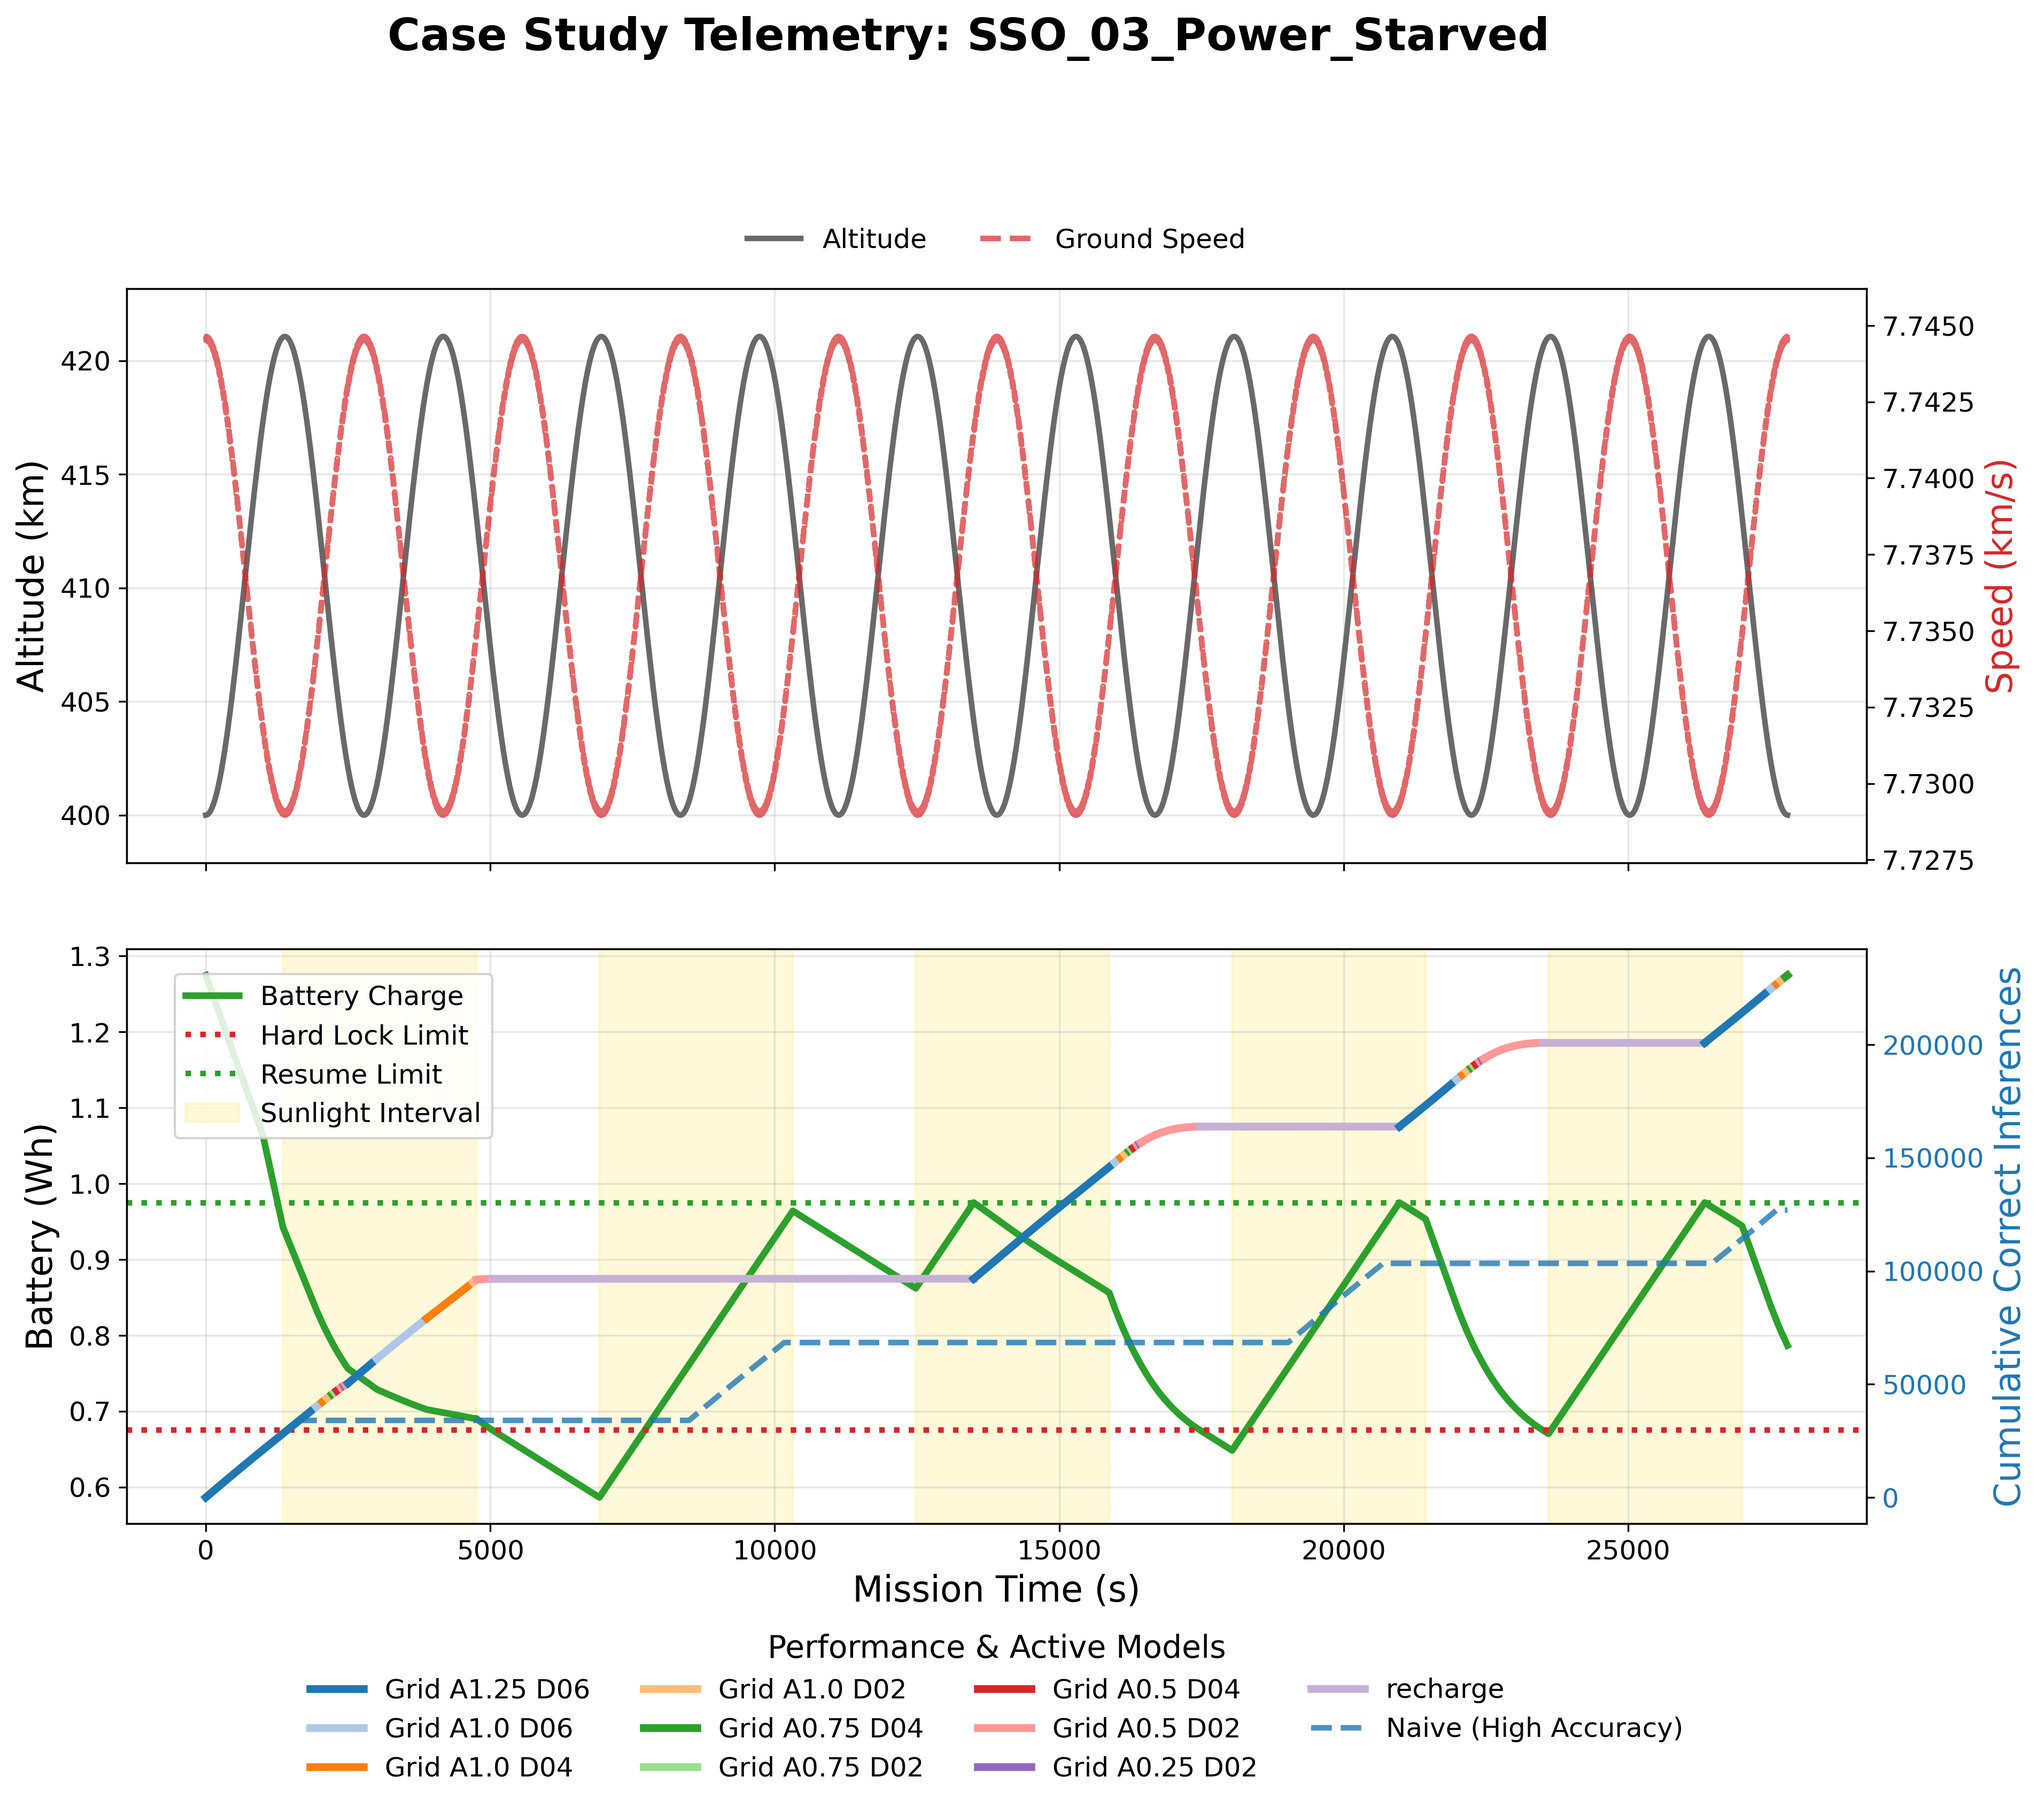
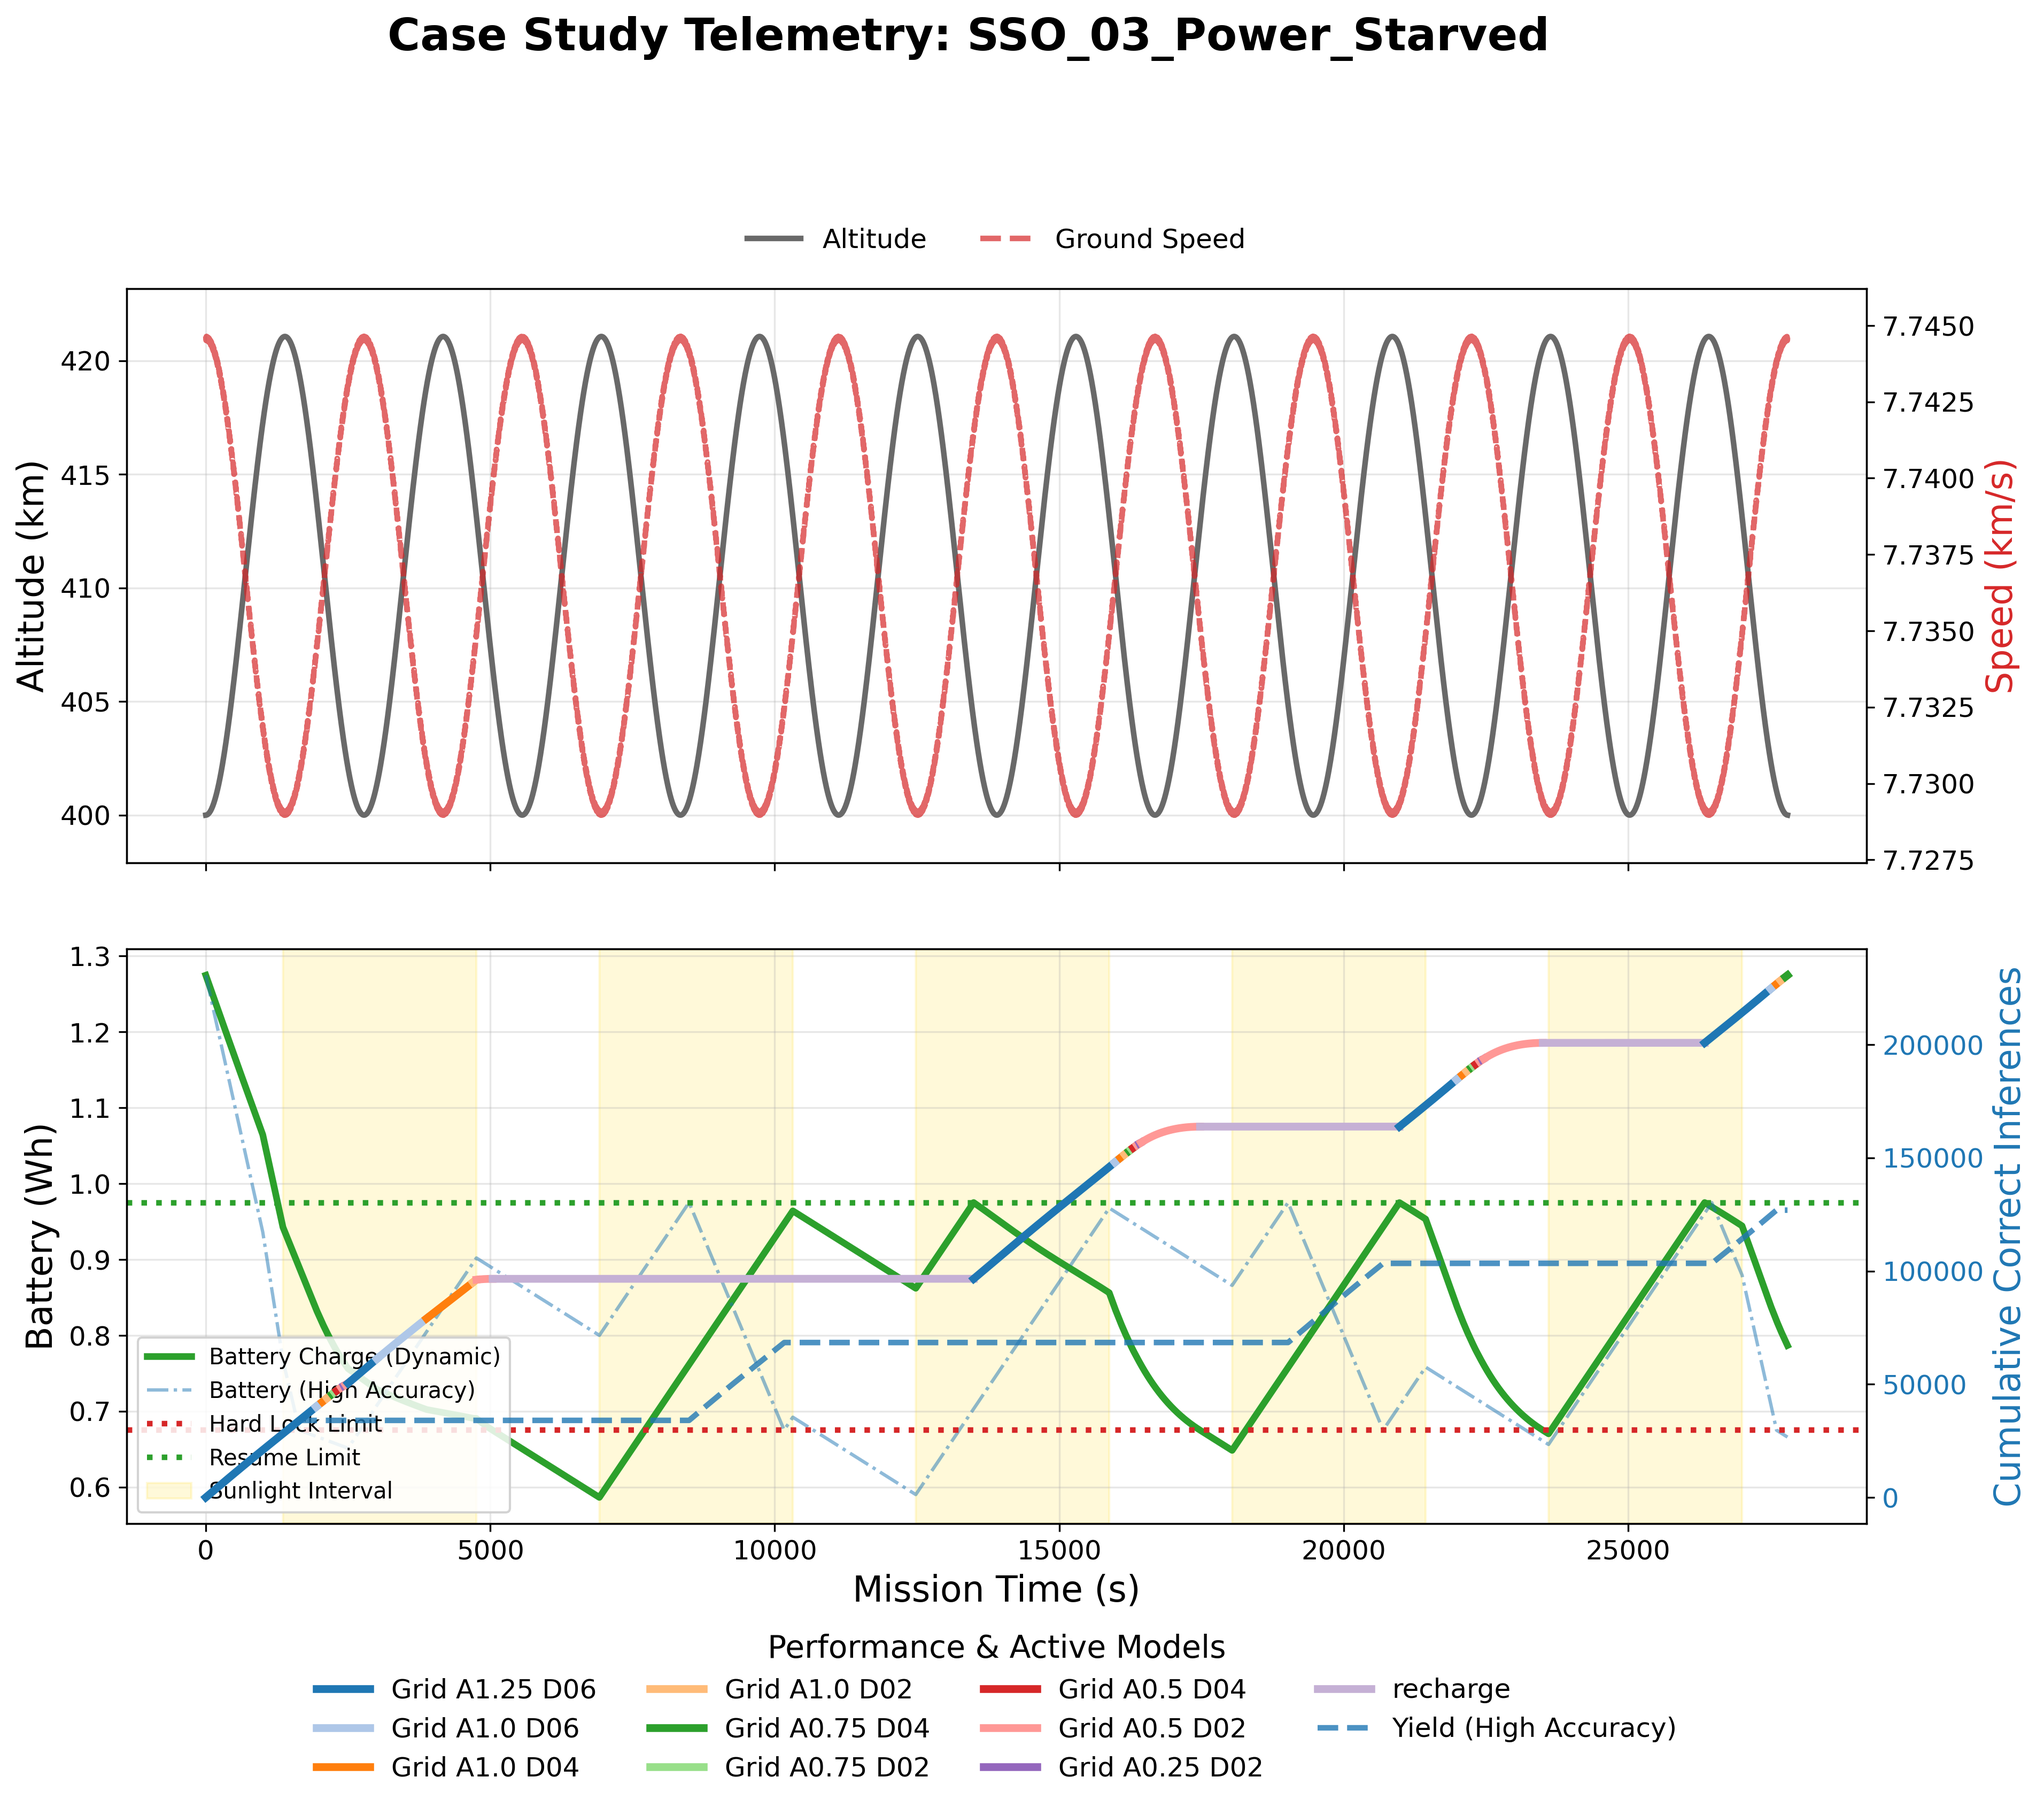
[results] added power comparison line to mission plots

diff --git a/src/scripts/dynamic_selection_sims/plotting_utils.py b/src/scripts/dynamic_selection_sims/plotting_utils.py
@@ -73,7 +73,6 @@ def plot_mission(logs, naive_states, case_name, cfg, output_dir,
     # bump title up to make room for floating legend
     fig.suptitle(f"Case Study Telemetry: {case_name}", y=1.05) 
 
-    # orbit dynamics
     ax1.plot(t_plot, logs['alt_km'], color='dimgray', label='Altitude')
     ax1.set_ylabel('Altitude (km)')
     
@@ -94,9 +93,25 @@ def plot_mission(logs, naive_states, case_name, cfg, output_dir,
     ax1.legend(lines_1 + lines_2, labels_1 + labels_2, loc='lower center', 
             bbox_to_anchor=(0.5, 1.02), ncol=2, frameon=False)
     ax1.grid(True, alpha=0.3)
+    
+    # Define baseline colors early so we can use them for both axes
+    baseline_colors = {'High_Accuracy': 'tab:blue', 'High_Throughput': 'tab:red', 'High_Efficiency': 'tab:purple'}
+    
+    ax2.plot(t_plot, logs['battery_wh'], color='tab:green', linewidth=3, label='Battery Charge (Dynamic)')
+    
+    # Inject requested naive battery lines
+    if plot_accuracy_baseline and 'High_Accuracy' in naive_states:
+        ax2.plot(t_plot, naive_states['High_Accuracy']['logs_battery_wh'], 
+                color=baseline_colors['High_Accuracy'], linestyle='-.', alpha=0.5, linewidth=1.5, label='Battery (High Accuracy)')
+        
+    if plot_throughput_baseline and 'High_Throughput' in naive_states:
+        ax2.plot(t_plot, naive_states['High_Throughput']['logs_battery_wh'], 
+                color=baseline_colors['High_Throughput'], linestyle='-.', alpha=0.5, linewidth=1.5, label='Battery (High Throughput)')
+        
+    if plot_efficiency_baseline and 'High_Efficiency' in naive_states:
+        ax2.plot(t_plot, naive_states['High_Efficiency']['logs_battery_wh'], 
+                color=baseline_colors['High_Efficiency'], linestyle='-.', alpha=0.5, linewidth=1.5, label='Battery (High Efficiency)')
 
-    # combined energy & yield
-    ax2.plot(t_plot, logs['battery_wh'], color='tab:green', linewidth=3, label='Battery Charge')
     ax2.axhline(cfg['battery_capacity_wh']*cfg['compute_disable_pct'], color='tab:red', linestyle=':', label='Hard Lock Limit')
     ax2.axhline(cfg['battery_capacity_wh']*cfg['compute_enable_pct'], color='tab:green', linestyle=':', label='Resume Limit')
     
@@ -108,33 +123,32 @@ def plot_mission(logs, naive_states, case_name, cfg, output_dir,
     ax2.set_xlabel('Mission Time (s)')
     ax2.grid(True, alpha=0.3)
     
-    ax2.legend(loc='upper left', frameon=True, framealpha=0.85, bbox_to_anchor=(0.02, 0.98))
+    # Moved the legend slightly to accommodate the extra lines without covering data
+    ax2.legend(loc='lower left', frameon=True, framealpha=0.85, fontsize=10)
 
-    # segmented yield & naive baselines
+    # Segmented yield & naive baselines
     ax2_t = ax2.twinx()
     color_dict = _get_model_colors(logs['model_name'])
     handles, labels = _plot_segmented_line(ax2_t, t_plot, logs['cum_correct'], logs['model_name'], color_dict, ylabel="Cumulative Correct Inferences")
     
-    # inject requested naive lines
-    baseline_colors = {'High_Accuracy': 'tab:blue', 'High_Throughput': 'tab:red', 'High_Efficiency': 'tab:purple'}
-    
+    # Inject requested naive yield lines
     if plot_accuracy_baseline and 'High_Accuracy' in naive_states:
         line, = ax2_t.plot(t_plot, naive_states['High_Accuracy']['logs_cum_correct'], 
-                        color=baseline_colors['High_Accuracy'], linestyle='--', alpha=0.8, label='Naive (High Accuracy)')
+                        color=baseline_colors['High_Accuracy'], linestyle='--', alpha=0.8, label='Yield (High Accuracy)')
         handles.append(line)
-        labels.append('Naive (High Accuracy)')
+        labels.append('Yield (High Accuracy)')
         
     if plot_throughput_baseline and 'High_Throughput' in naive_states:
         line, = ax2_t.plot(t_plot, naive_states['High_Throughput']['logs_cum_correct'], 
-                        color=baseline_colors['High_Throughput'], linestyle='--', alpha=0.8, label='Naive (High Throughput)')
+                        color=baseline_colors['High_Throughput'], linestyle='--', alpha=0.8, label='Yield (High Throughput)')
         handles.append(line)
-        labels.append('Naive (High Throughput)')
+        labels.append('Yield (High Throughput)')
         
     if plot_efficiency_baseline and 'High_Efficiency' in naive_states:
         line, = ax2_t.plot(t_plot, naive_states['High_Efficiency']['logs_cum_correct'], 
-                        color=baseline_colors['High_Efficiency'], linestyle='--', alpha=0.8, label='Naive (High Efficiency)')
+                        color=baseline_colors['High_Efficiency'], linestyle='--', alpha=0.8, label='Yield (High Efficiency)')
         handles.append(line)
-        labels.append('Naive (High Efficiency)')
+        labels.append('Yield (High Efficiency)')
 
     if handles:
         ncol = min(4, len(labels))
@@ -252,6 +266,3 @@ def plot_horizon_sweep(results, best_horizon, frames_per_orbit, case_name, outpu
     save_path = output_dir / f"{case_name}_optimization_curve.png"
     plt.savefig(save_path, dpi=300)
     plt.close()
-
-
-def plot_heat_map():

diff --git a/src/scripts/dynamic_selection_sims/selection_case_studies.py b/src/scripts/dynamic_selection_sims/selection_case_studies.py
@@ -7,6 +7,19 @@ import os
 from stk_utils import load_orbit_data, interpolate_orbit
 from plotting_utils import plot_orbit_dynamics, plot_mission, plot_naive_blitz, plot_horizon_sweep
 
+current_file = Path(__file__).resolve()
+project_root = None
+for parent in current_file.parents:
+    if parent.name == "CoralGUI":
+        project_root = parent
+        break
+
+if project_root:
+    sys.path.insert(0, str(project_root))
+else:
+    
+    sys.path.insert(0, str(current_file.parents[5]))
+
 try:
     from libs.coral_tpu_characterization.src.scripts.utils.path_utils import get_repo_root
     ROOT_DIR = get_repo_root()

diff --git a/src/scripts/dynamic_selection_sims/SSO_Cases.py b/src/scripts/dynamic_selection_sims/SSO_Cases.py
@@ -1,6 +1,18 @@
 import sys
 from pathlib import Path
 
+current_file = Path(__file__).resolve()
+project_root = None
+for parent in current_file.parents:
+    if parent.name == "CoralGUI":
+        project_root = parent
+        break
+
+if project_root:
+    sys.path.insert(0, str(project_root))
+else:
+    
+    sys.path.insert(0, str(current_file.parents[5]))
 try:
     from libs.coral_tpu_characterization.src.scripts.utils.path_utils import get_repo_root
     ROOT_DIR = get_repo_root()
